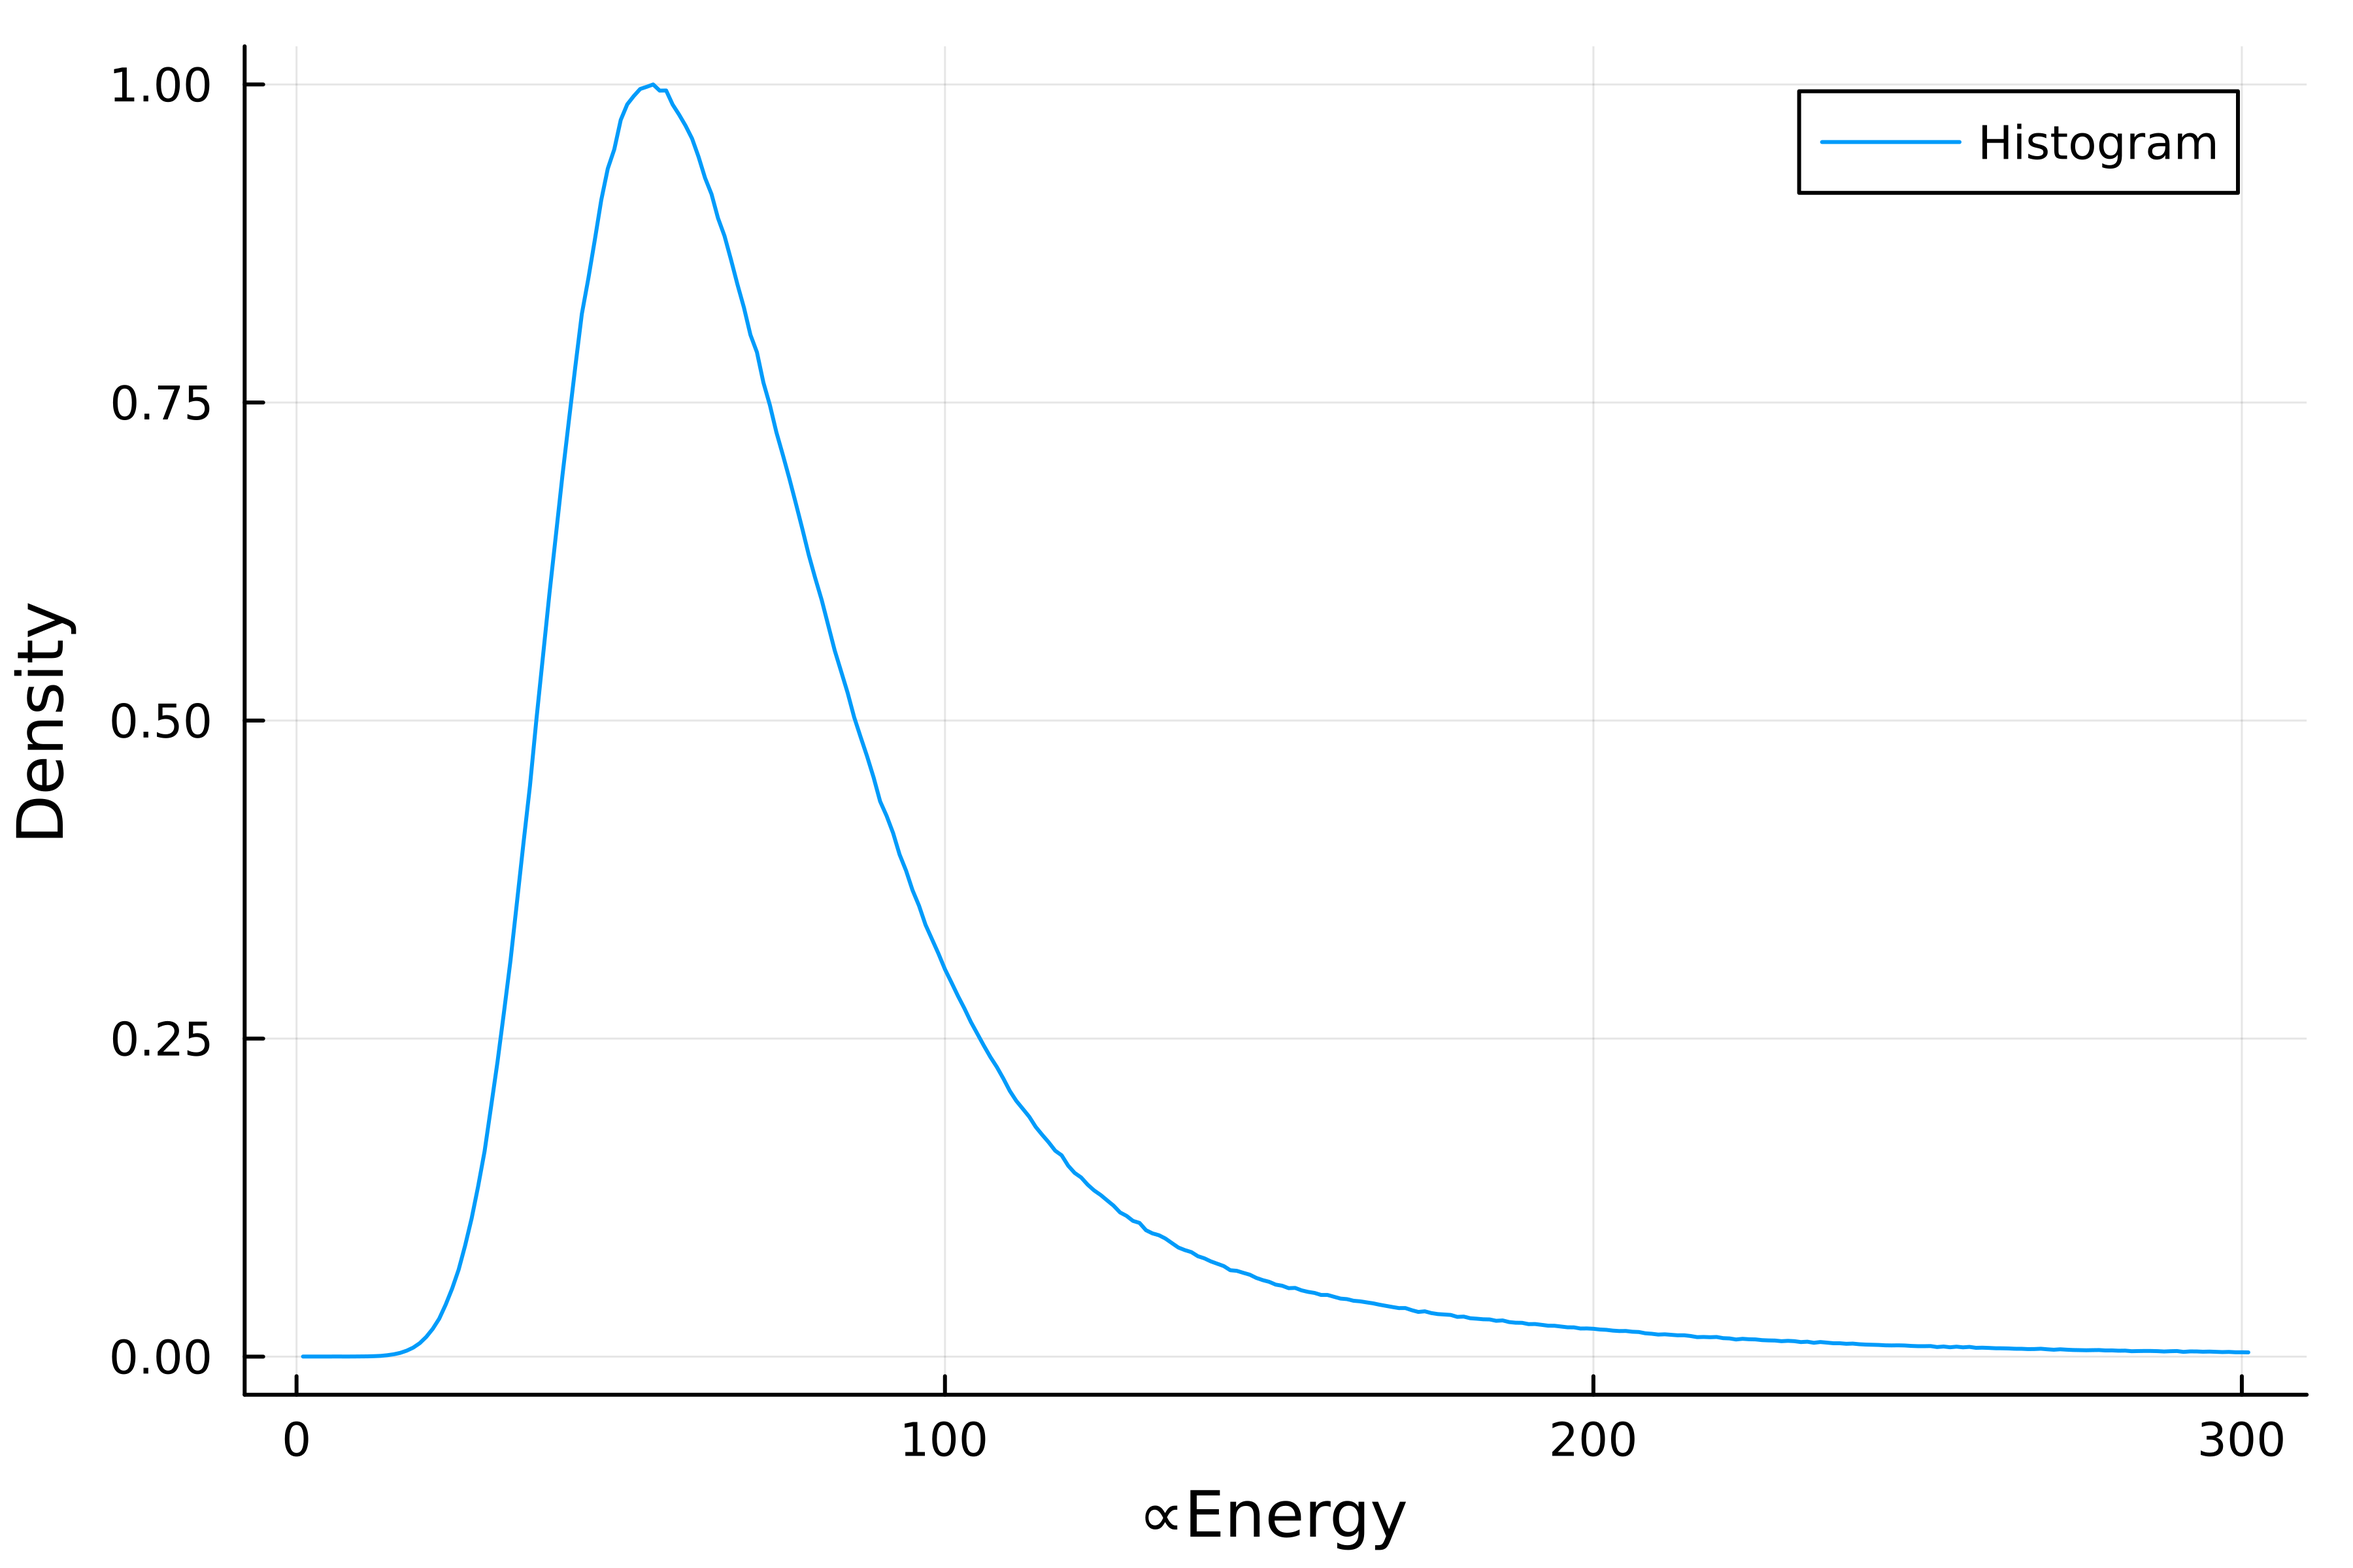
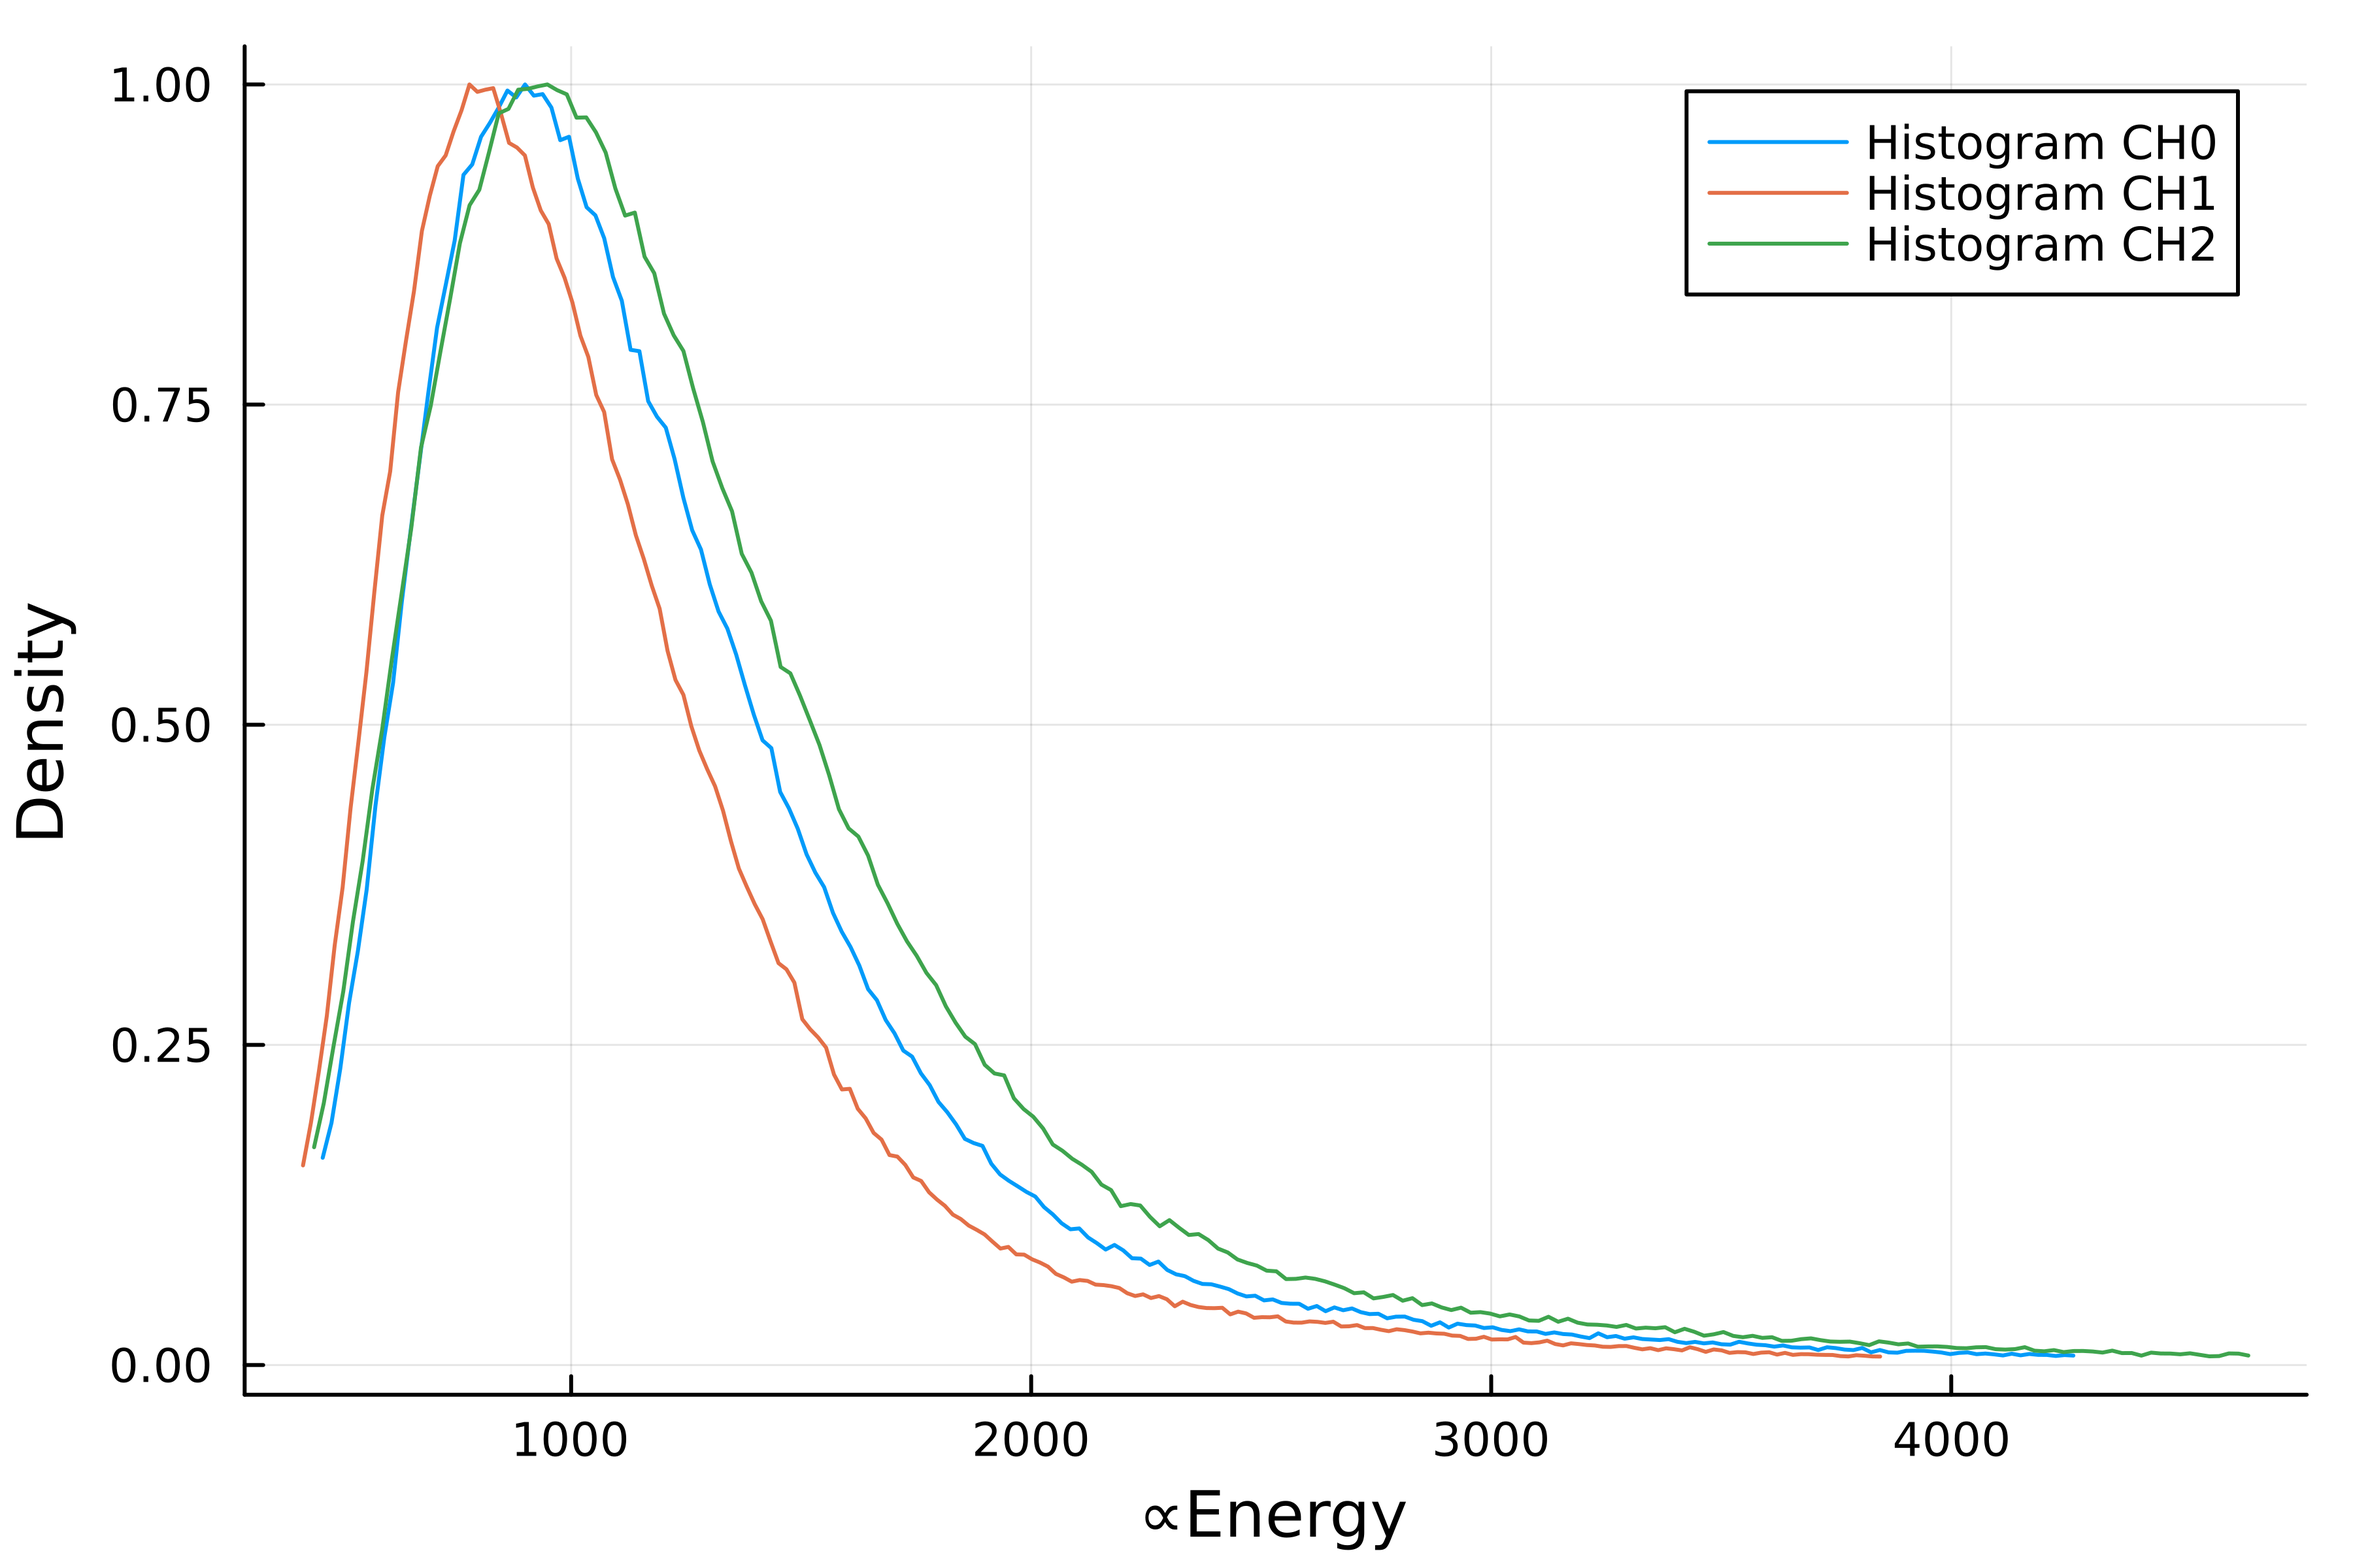
Version 2.0
- Enhance Performance
- Rescale Histogram with quantiles

diff --git a/README.md b/README.md
@@ -10,7 +10,7 @@ This project is the extension to the TancaDataAcquisition project. It is a packa
 The function `readData(workingDir::String, parts::Int)` returns two StructArrays with data mainly recorded with the Arduino Uno:
 
 ```
-readData(workingDir::String, parts::Int)
+    getArduinoData(workingDir::String, parts::Int)
 
 Reads all the root Data created by the TancaDataAcquisition program from one woking directory.
 
@@ -48,21 +48,20 @@ end
 ```
 using TancaAnalysis, Plots, Dates
 
-# get the Arduino Data Trees
 data2, data3 = getArduinoData("testdata/", 3)
 
-# format data
+# data
 time  = DateTime(1970, 1, 1) .+ Millisecond.(div.(data2.time, 10^6))
-time_str = Dates.format.(time, "HH:MM")
-
 rate  = data2.rate
 pAtm  = data2.pAtm
 
+time_str = Dates.format.(time, "yyyy-mm-dd HH") 
+
 # plot rate on the left y axis
-plot(time_str, rate, color=:blue, label="Rate", ylabel="Rate", dpi=600)
+plot(time_str, rate, color=:blue, label="Rate", ylabel="Rate / Hz", xlabel="Time", dpi=600)
 
 # plot pressure on the right y axis
-plot!(twinx(), time_str, pAtm, color=:red, label="pAtm", ylabel="pAtm (atm)")
+plot!(twinx(), time_str, pAtm, color=:red, label="Pressure", ylabel="Pressure / mbar")
 
 savefig("RatePressure.png")
 ```
@@ -76,16 +75,17 @@ savefig("RatePressure.png")
 The function `getHistogram(workingDir::String, bins::Int)` returns a list of Histograms of the Area under the mesured peaks for eeach hour:
 
 ```
-getSpectrum(workingDir::String)
+    getHistogram(workingDir::String, bins::Int; maxVal::Int=nothing)::AbstractMatrix
 
-Returns List of Spectrums, one for every hour.
+Returns Matrix of Histograms, one for every hour and every channel.
 
 # Arguments:
 - `workingDir::String`: folder of all root-Files
 - `bins::Int`: Number of bins for the Spectrum
+- `maxVal::Int`: Maximum number of events for Histogram calculation
 
 # Output:
-- `Array(Histogram)`
+- `HistogramMatrix(x1, y1, x2, y2, x3, y3)`
 ```
 
 ### Usage example
@@ -93,11 +93,12 @@ Returns List of Spectrums, one for every hour.
 ```
 using TancaAnalysis, Plots
 
-# get the list of histograms
-Hist = getHistogram("testdata/", 10000)
+Hist = getHistogram("testdata/", 200; maxVal=1000000)
 
-# plot one example histogram
-plot(Hist[1][1200:1500], label="Histogram", xlabel="∝Energy", ylabel="Density", dpi=600)
+# plot histogram
+plot(Hist[1,1], Hist[2,1], label="Histogram CH0", xlabel="∝Energy", ylabel="Density", dpi=600)
+plot!(Hist[3,1], Hist[4,1], label="Histogram CH1")
+plot!(Hist[5,1], Hist[6,1], label="Histogram CH2")
 
 savefig("Histogram.png")
 ```
